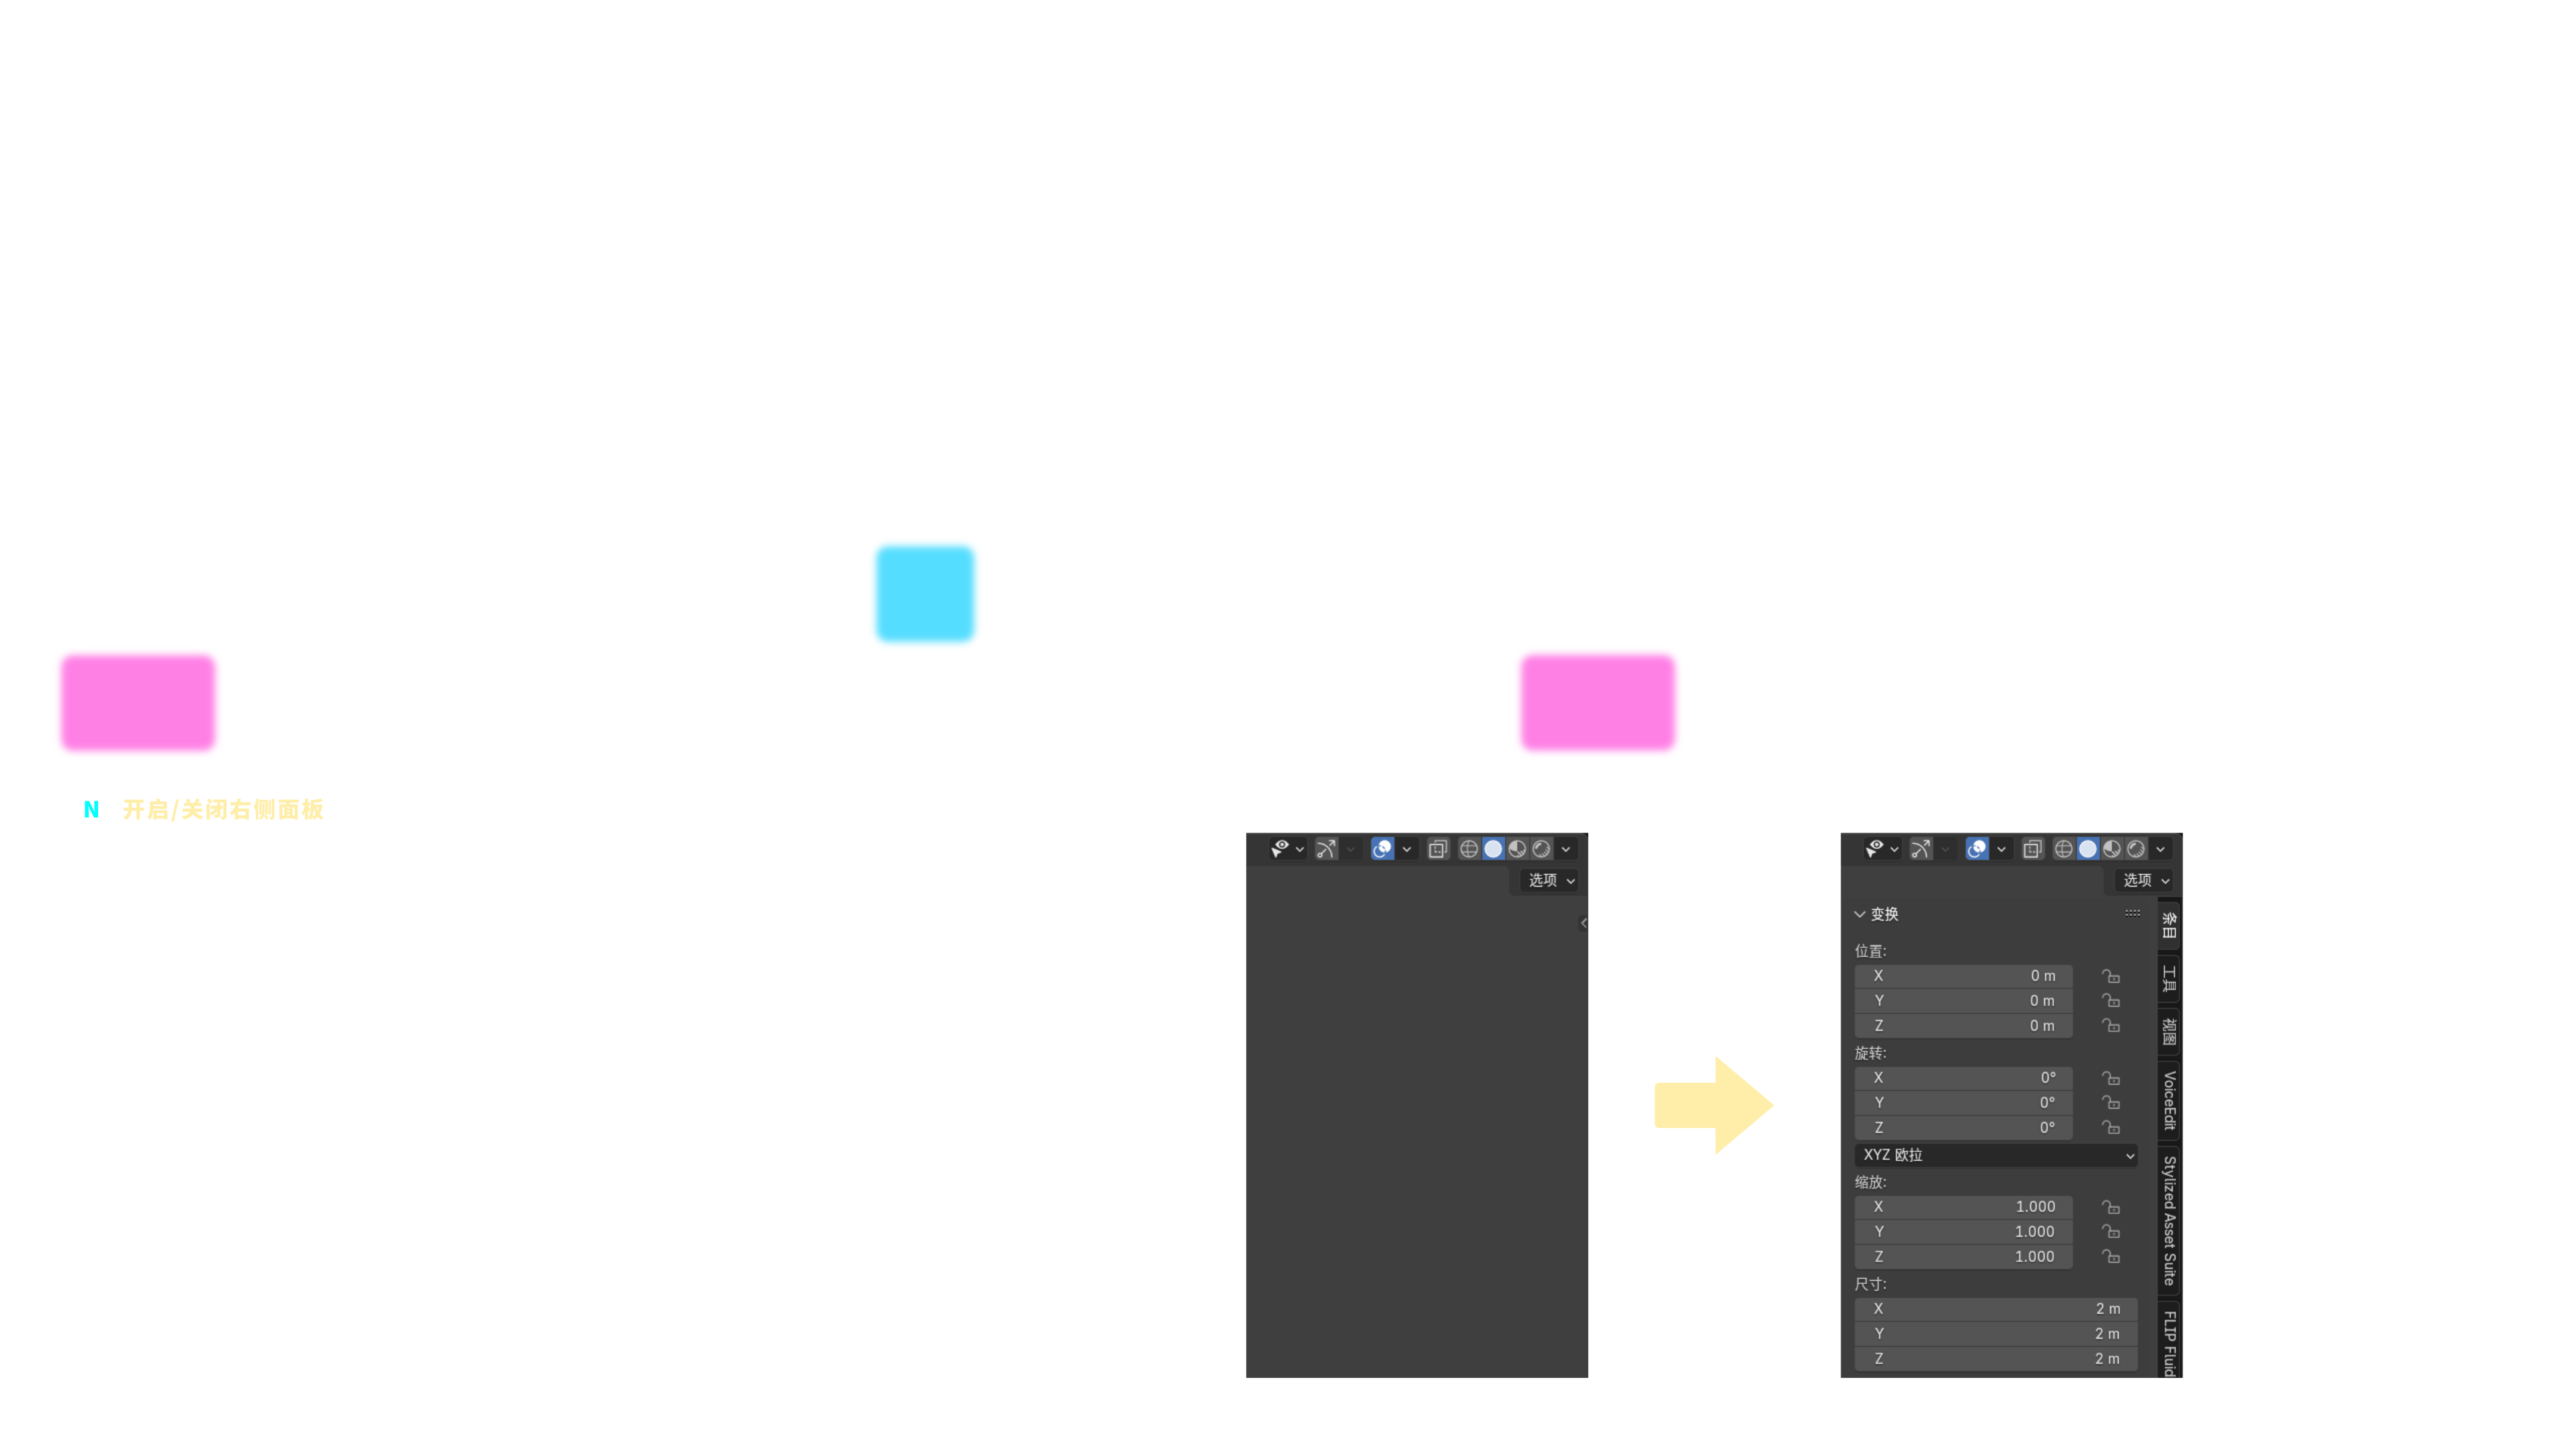
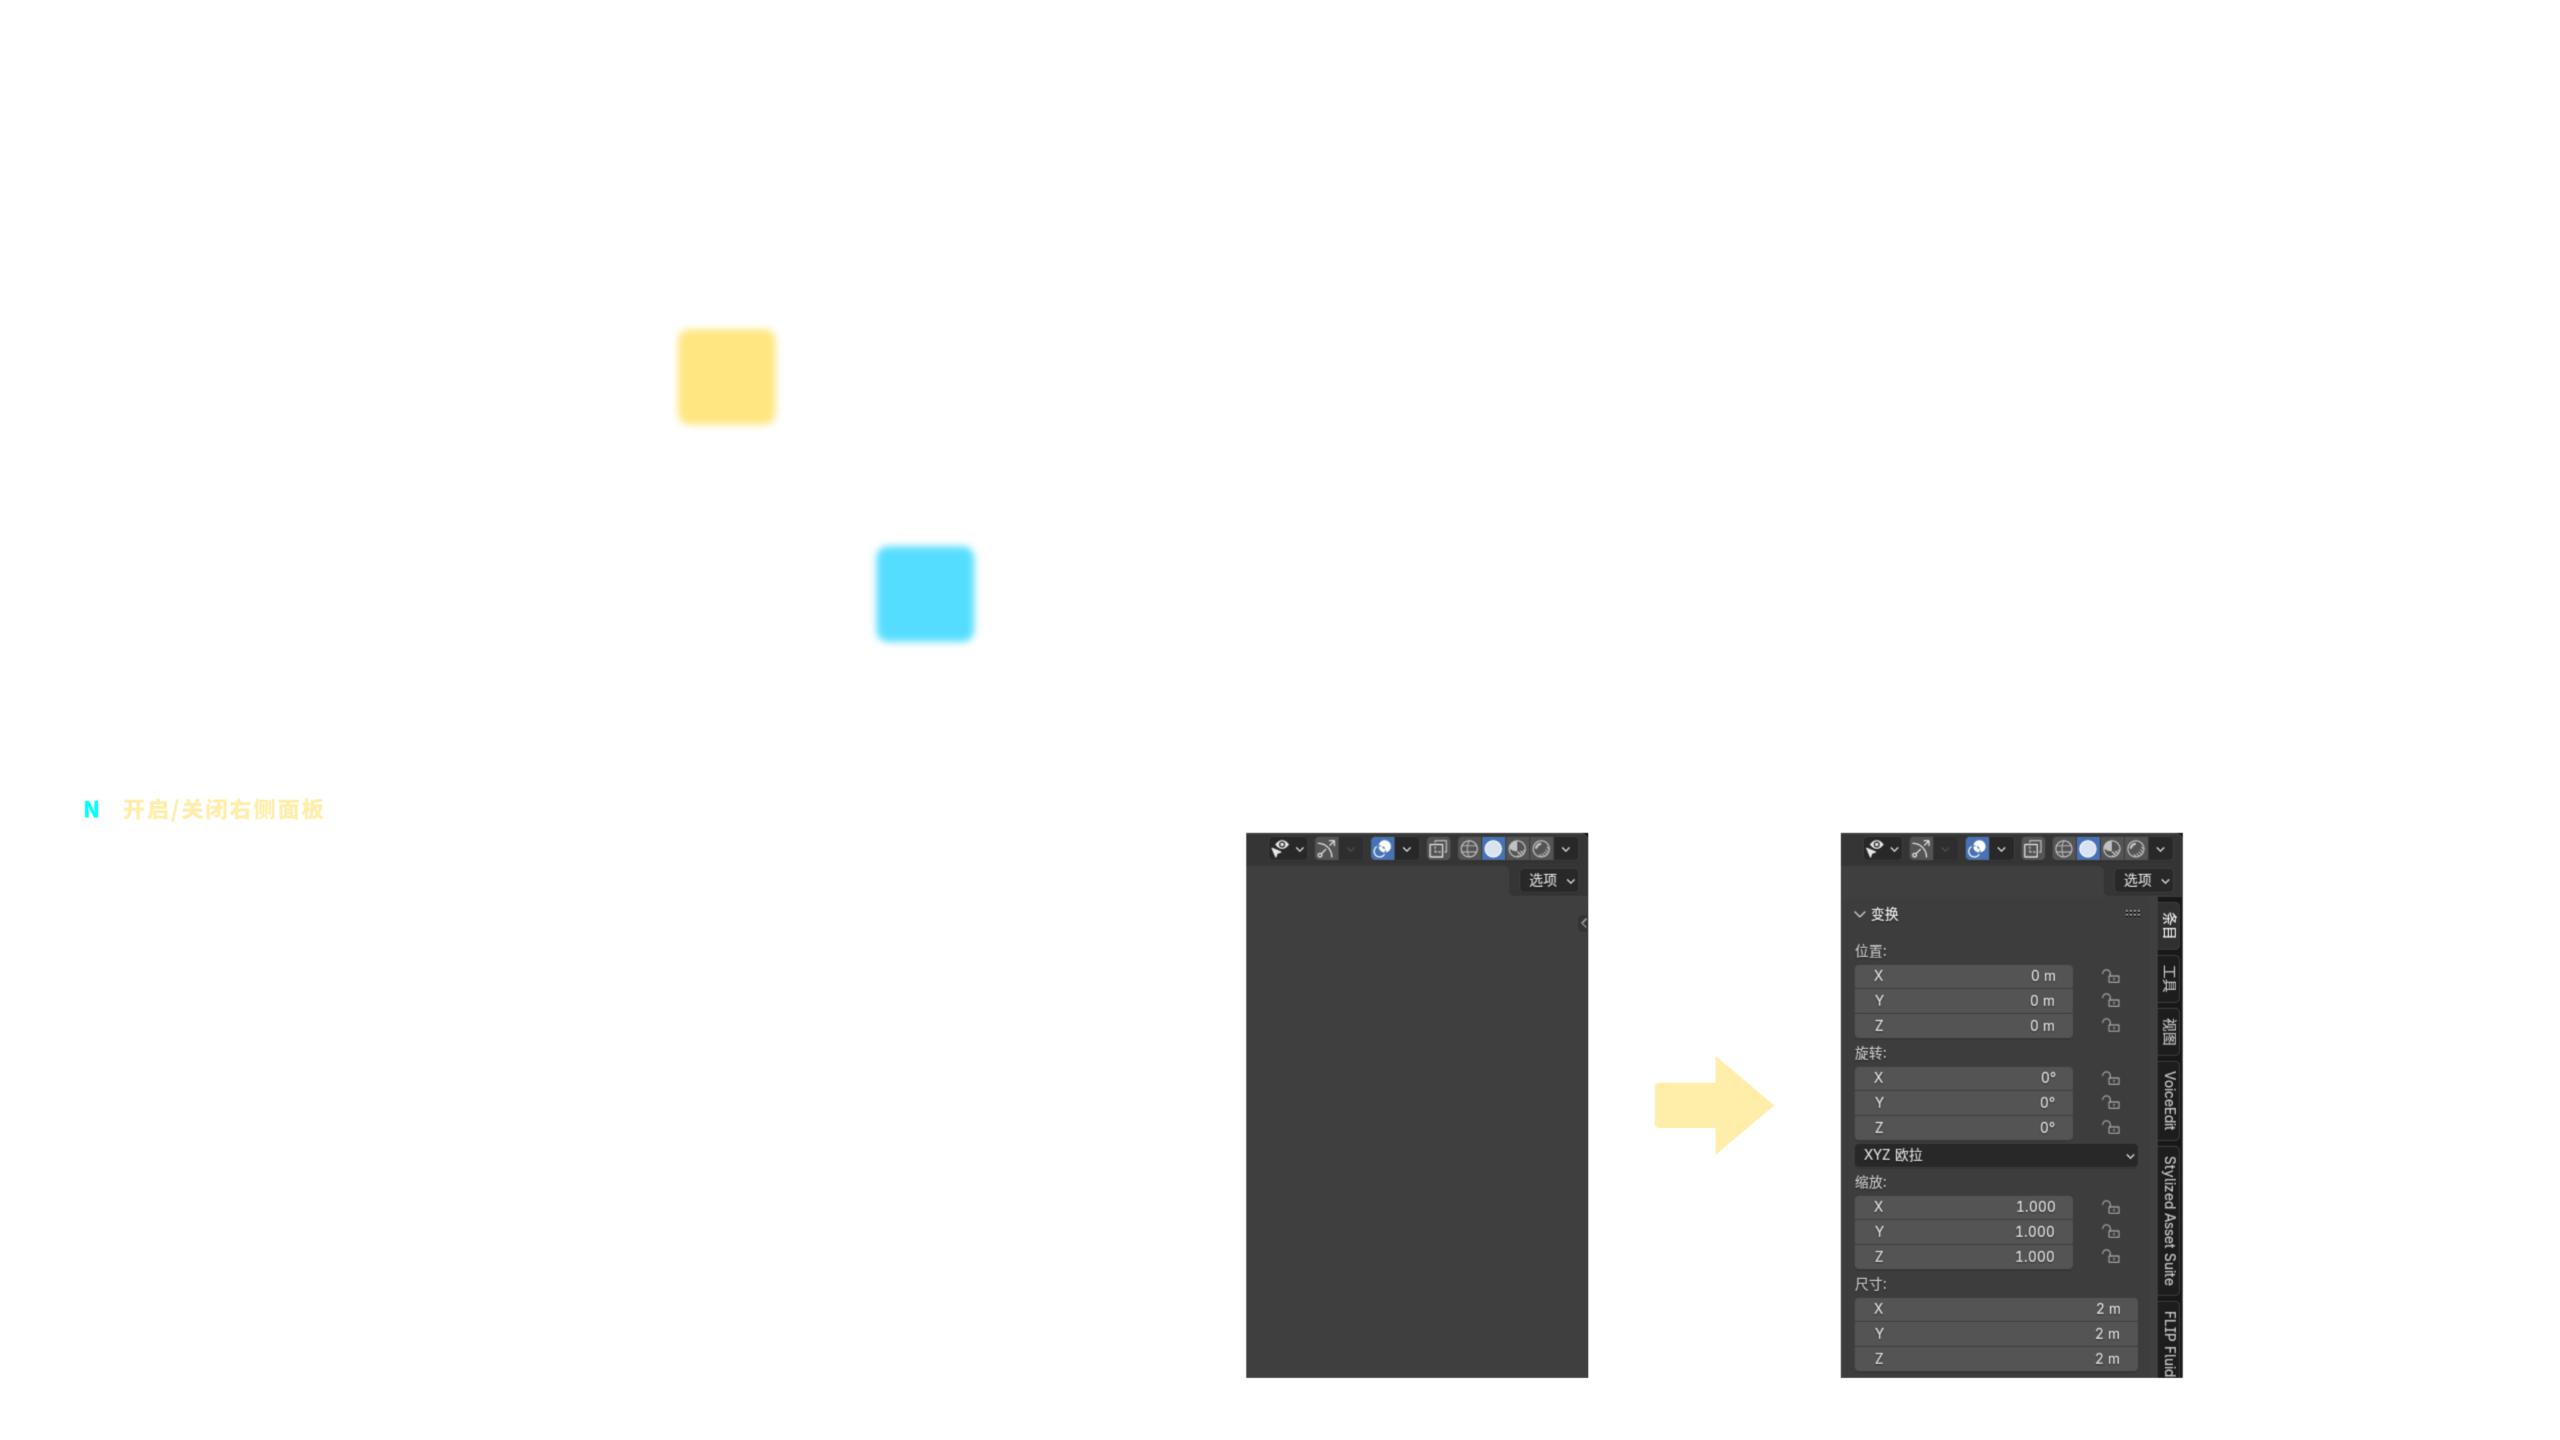
实现模态模式/*-+键功能

Changed region(s): [[0.0, 0.4375, 0.0938, 0.5312], [0.5938, 0.4375, 0.6562, 0.5312], [0.25, 0.2188, 0.3125, 0.3125]]

diff --git a/no_shortcut.py b/no_shortcut.py
@@ -435,6 +435,32 @@ class NS_OT_no_shortcut(bpy.types.Operator):
                 draw_keys('RIGHT_SHIFT.png')
             return {'RUNNING_MODAL'}
         
+        if event.type == 'NUMPAD_SLASH':
+            draw_keys('NUM_SLASH.png')
+            if event.alt:
+                draw_keys('NUM_SLASH_ALT.png')
+            if event.ctrl or event.shift:
+                draw_keys('NUM_SLASH_CTRL_SHIFT.png')
+            return {'RUNNING_MODAL'}
+        
+        if event.type == 'NUMPAD_ASTERIX':
+            draw_keys('NUM_ASTERIX.png')
+            if event.ctrl or event.shift:
+                draw_keys('NUM_ASTERIX_CTRL_SHIFT.png')
+            return {'RUNNING_MODAL'}
+        
+        if event.type == 'NUMPAD_MINUS':
+            draw_keys('NUM_MINUS.png')
+            if event.ctrl or event.shift:
+                draw_keys('NUM_MINUS_CTRL_SHIFT.png')
+            return {'RUNNING_MODAL'}
+        
+        if event.type == 'NUMPAD_PLUS':
+            draw_keys('NUM_PLUS.png')
+            if event.ctrl or event.shift:
+                draw_keys('NUM_PLUS_CTRL_SHIFT.png')
+            return {'RUNNING_MODAL'}
+        
         
 
         
